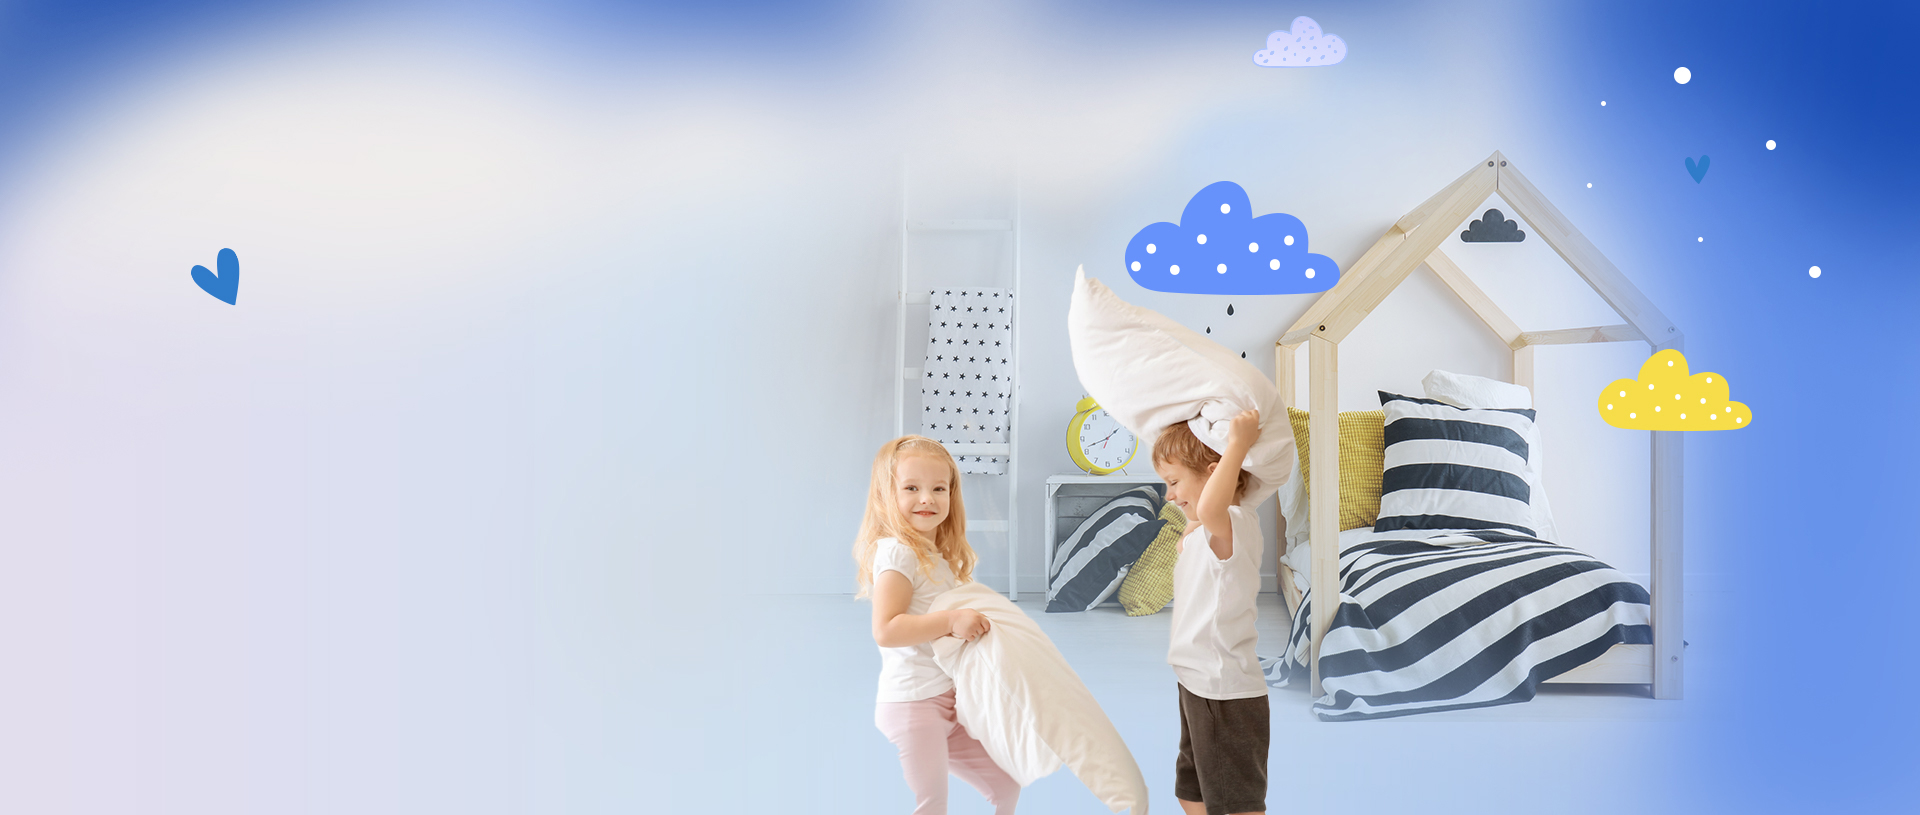
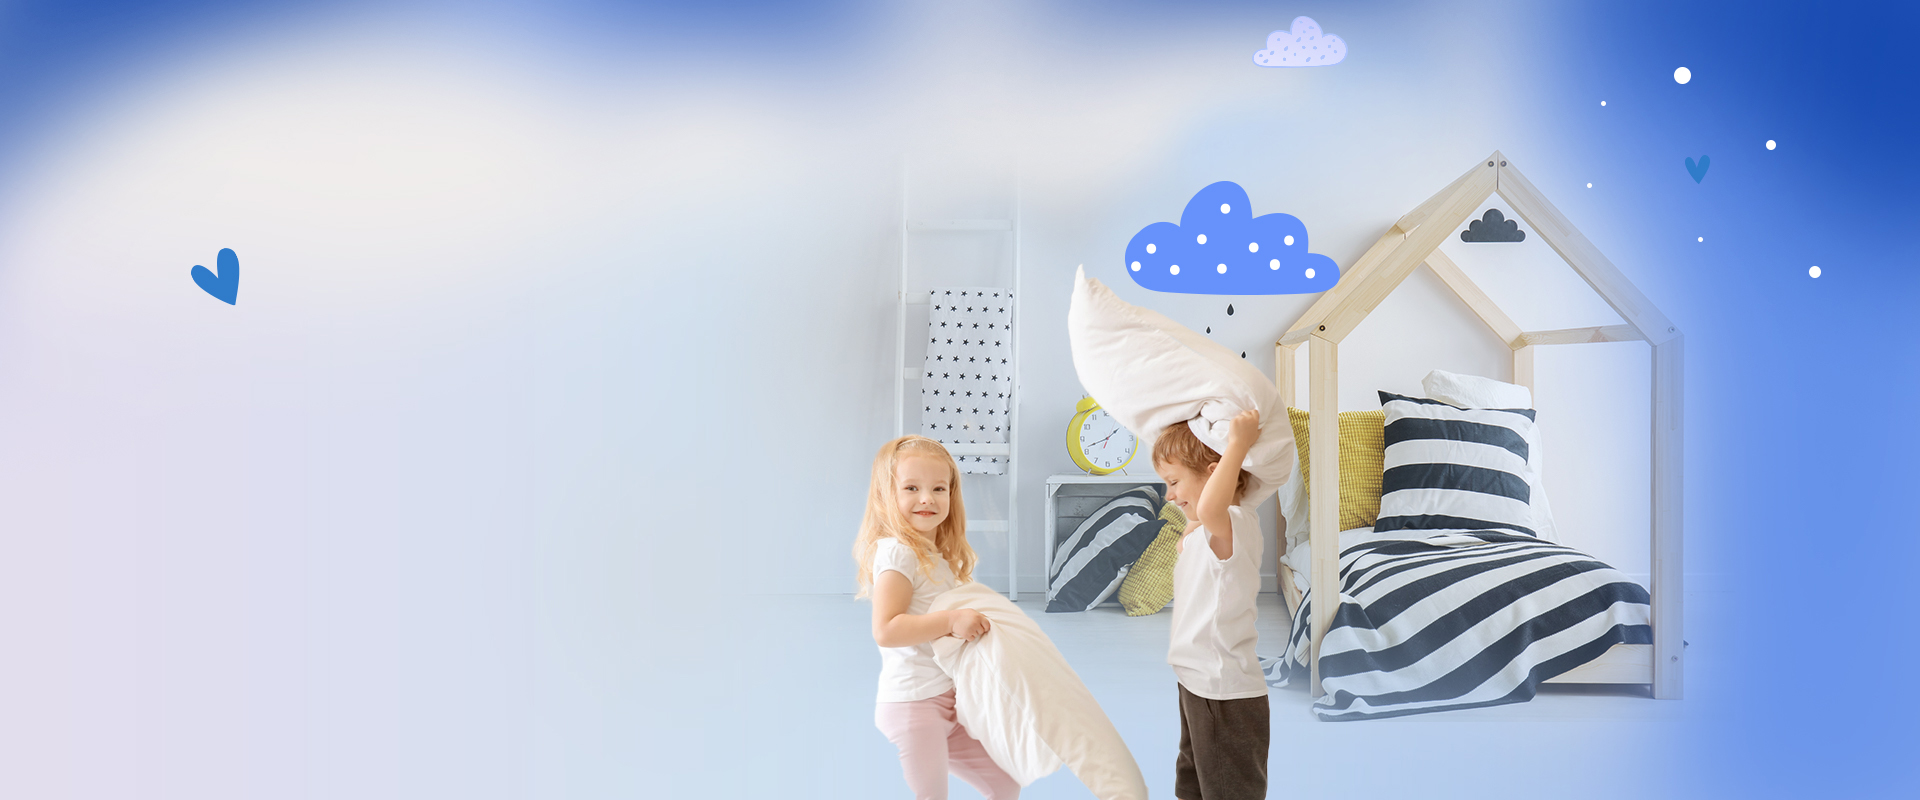
Параллакс

diff --git a/css/styles.css b/css/styles.css
@@ -1301,6 +1301,23 @@ header.fixed .logo img
 }
 
 
+.first_section .parallax_img1
+{
+    position: absolute;
+    z-index: 2;
+    top: 50%;
+    right: 50%;
+
+    display: block;
+
+    width: 164px;
+    height: 82px;
+    margin-top: 50px;
+    margin-right: -810px;
+
+    transition: transform .05s linear;
+}
+
 .first_section .bg
 {
     position: absolute;
@@ -1546,7 +1563,7 @@ header.fixed .logo img
 .about .img2
 {
     position: absolute;
-    bottom: -20px;
+    bottom: 120px;
     left: 50%;
 
     display: block;
@@ -1555,6 +1572,7 @@ header.fixed .logo img
     height: 115px;
     margin-left: -720px;
 
+    transition: transform .05s linear;
     pointer-events: none;
 }
 
@@ -1764,6 +1782,8 @@ header.fixed .logo img
 
     width: 100%;
     height: 100%;
+
+    transition: transform .05s linear;
 
     background-repeat: no-repeat;
     background-position: 50%;
@@ -2211,18 +2231,37 @@ header.fixed .logo img
     background: url(../images/products_clouds1.png) 50% 0 no-repeat;
 }
 
+
+.products .parallax_img1
+{
+    position: absolute;
+    z-index: 2;
+    top: -120px;
+    right: 50%;
+
+    display: block;
+
+    width: 238px;
+    height: 128px;
+    margin-right: -810px;
+
+    transition: transform .05s linear;
+}
+
 .products .bg
 {
     position: absolute;
     z-index: 3;
-    bottom: 0;
+    bottom: 100px;
     left: 0;
 
     width: 100%;
-    height: calc(100% + 72px);
+    height: 1364px;
+
+    transition: transform .05s linear;
 
     background-repeat: no-repeat;
-    background-position: 50% 0;
+    background-position: 50%;
 }
 
 .products .cont
@@ -2511,11 +2550,12 @@ header.fixed .logo img
     background: url(../images/reviews_clouds2.png) 50% 0 no-repeat;
 }
 
+
 .reviews .img1
 {
     position: absolute;
     z-index: 5;
-    bottom: -138px;
+    bottom: -240px;
     left: 50%;
 
     display: block;
@@ -2524,7 +2564,40 @@ header.fixed .logo img
     height: 96px;
     margin-left: 258px;
 
+    transition: transform .05s linear;
     pointer-events: none;
+}
+
+.reviews .parallax_img1
+{
+    position: absolute;
+    z-index: 6;
+    top: 100px;
+    left: 50%;
+
+    display: block;
+
+    width: 331px;
+    height: 199px;
+    margin-left: -825px;
+
+    transition: transform .05s linear;
+}
+
+.reviews .parallax_img2
+{
+    position: absolute;
+    z-index: 6;
+    right: 50%;
+    bottom: 20px;
+
+    display: block;
+
+    width: 232px;
+    height: 215px;
+    margin-right: -750px;
+
+    transition: transform .05s linear;
 }
 
 .reviews .bg
@@ -2667,15 +2740,18 @@ header.fixed .logo img
     background: #100958;
 }
 
+
 .delivery .bg
 {
     position: absolute;
     z-index: 3;
-    bottom: 110px;
+    bottom: 150px;
     left: 0;
 
     width: 100%;
     height: 281px;
+
+    transition: transform .05s linear;
 
     background-repeat: no-repeat;
     background-position: 50%;
@@ -2792,6 +2868,7 @@ header.fixed .logo img
     background: url(../images/faq_clouds1.png) 50% 100% no-repeat;
 }
 
+
 .faq .img1
 {
     position: absolute;
@@ -2811,7 +2888,8 @@ header.fixed .logo img
 .faq .img2
 {
     position: absolute;
-    top: 20px;
+    z-index: 5;
+    top: -120px;
     left: 50%;
 
     display: block;
@@ -2820,7 +2898,14 @@ header.fixed .logo img
     height: 138px;
     margin-left: 415px;
 
+    transition: transform .05s linear;
     pointer-events: none;
+}
+
+.faq .cont
+{
+    position: relative;
+    z-index: 9;
 }
 
 
@@ -2939,11 +3024,12 @@ header.fixed .logo img
     z-index: 10;
 }
 
+
 .has_question .img1
 {
     position: absolute;
     z-index: 5;
-    top: -82px;
+    top: -120px;
     left: 50%;
 
     display: block;
@@ -2952,13 +3038,14 @@ header.fixed .logo img
     height: 167px;
     margin-left: -572px;
 
+    transition: transform .05s linear;
     pointer-events: none;
 }
 
 .has_question .img2
 {
     position: absolute;
-    bottom: -72px;
+    bottom: -20px;
     left: 50%;
 
     display: block;
@@ -2967,6 +3054,7 @@ header.fixed .logo img
     height: 143px;
     margin-left: -240px;
 
+    transition: transform .05s linear;
     pointer-events: none;
 }
 

diff --git a/index.html b/index.html
@@ -127,6 +127,8 @@
 
 					</div>
 
+					<img data-src="images/parallax_img1.png" alt="" class="lozad parallax parallax_img1 speed1">
+
 					<div class="bg lozad" data-background-image="images/bg_first_section.jpg"></div>
 				</section>
 
@@ -160,7 +162,7 @@
 					</div>
 
 					<img data-src="images/about_img1.png" alt="" class="lozad img1">
-					<img data-src="images/about_img2.png" alt="" class="lozad img2">
+					<img data-src="images/about_img2.png" alt="" class="lozad parallax speed2 img2">
 				</section>
 
 
@@ -239,7 +241,7 @@
 
 					</div>
 
-					<div class="bg lozad" data-background-image="images/bg_production.png"></div>
+					<div class="bg lozad parallax speed3" data-background-image="images/bg_production.png"></div>
 				</section>
 
 
@@ -418,7 +420,9 @@
 
 					</div>
 
-					<div class="bg lozad" data-background-image="images/bg_products.png"></div>
+					<img data-src="images/parallax_img2.png" alt="" class="lozad parallax parallax_img1 speed3">
+
+					<div class="bg lozad parallax speed3" data-background-image="images/bg_products.png"></div>
 				</section>
 
 
@@ -482,7 +486,11 @@
 
 					</div>
 
-					<img data-src="images/review_img.png" alt="" class="lozad img1">
+					<img data-src="images/review_img.png" alt="" class="lozad img1 parallax speed3">
+
+					<img data-src="images/parallax_img3.png" alt="" class="lozad parallax parallax_img1 speed1">
+
+					<img data-src="images/parallax_img4.png" alt="" class="lozad parallax parallax_img2 speed2">
 
 					<div class="bg lozad" data-background-image="images/bg_reviews.png"></div>
 				</section>
@@ -530,7 +538,7 @@
 
 					</div>
 
-					<div class="bg lozad" data-background-image="images/bg_delivery.png"></div>
+					<div class="bg lozad parallax speed3" data-background-image="images/bg_delivery.png"></div>
 				</section>
 
 
@@ -602,7 +610,7 @@
 					</div>
 
 					<img data-src="images/faq_img.png" alt="" class="lozad img1">
-					<img data-src="images/faq_img2.png" alt="" class="lozad img2">
+					<img data-src="images/faq_img2.png" alt="" class="lozad img2 parallax speed2">
 				</section>
 
 
@@ -649,8 +657,9 @@
 
 					</div>
 
-					<img data-src="images/has_question_img.png" alt="" class="lozad img1">
-					<img data-src="images/has_question_img2.png" alt="" class="lozad img2">
+					<img data-src="images/has_question_img.png" alt="" class="lozad img1 parallax speed3">
+
+					<img data-src="images/has_question_img2.png" alt="" class="lozad img2 parallax speed3">
 				</section>
 
 

diff --git a/js/scripts.js b/js/scripts.js
@@ -119,6 +119,10 @@ $(function() {
 			})
 		}
 	})
+
+
+	// Параллакс эффект
+	parallax()
 })
 
 
@@ -129,11 +133,15 @@ $(window).scroll(function() {
 	} else {
 		$('header').removeClass('fixed')
 	}
+
+
+	// Параллакс эффект
+	parallax()
 })
 
 
+// Калькулятор
 function initCalc() {
-	// Калькулятор
 	$totalOldPriceEl   = $('.product_info .price .old span')
 	$totalPriceEl      = $('.product_info .price .new span').add('#product_modal .bottom .total_price span')
 	$totalPriceElInput = $('#product_modal .calc input[name="total_price"]')
@@ -152,5 +160,31 @@ function updateOptions(){
 		$(this).find('option[data-material="any"]').prop('disabled', false)
 
 		$('select').niceSelect('update')
+	})
+}
+
+
+
+// Параллакс эффект
+function parallax(){
+	$('.parallax.speed1').each(function(){
+		let parent = $(this).closest('section')
+		let parentOffset = parent.offset()
+
+		$(this).css('transform', 'translate3d(0px, '+ ($(window).scrollTop() - parentOffset.top)/-2 +'px, 0px)')
+	})
+
+	$('.parallax.speed2').each(function(){
+		let parent = $(this).closest('section')
+		let parentOffset = parent.offset()
+
+		$(this).css('transform', 'translate3d(0px, '+ ($(window).scrollTop() - parentOffset.top)/-3 +'px, 0px)')
+	})
+
+	$('.parallax.speed3').each(function(){
+		let parent = $(this).closest('section')
+		let parentOffset = parent.offset()
+
+		$(this).css('transform', 'translate3d(0px, '+ ($(window).scrollTop() - parentOffset.top)/-6 +'px, 0px)')
 	})
 }
